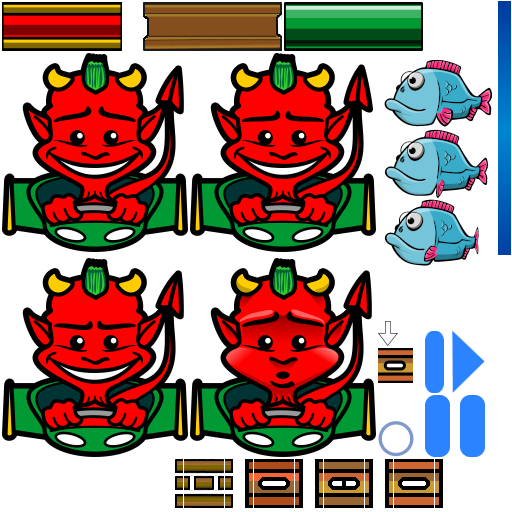
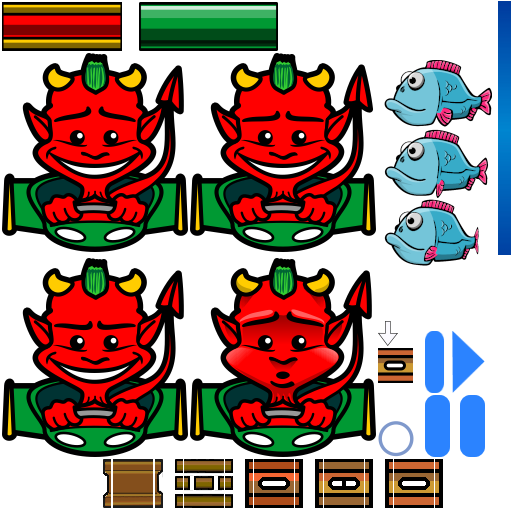
fishes fix. collision debug fix. android gps error dialog. obstacle3 graphics

Changed region(s): [[0.25, 0.0, 0.8438, 0.125], [0.1875, 0.875, 0.3438, 1.0]]

diff --git a/core/src/com/igorcrevar/goingunder/objects/Fishes.java b/core/src/com/igorcrevar/goingunder/objects/Fishes.java
@@ -12,7 +12,7 @@ import com.igorcrevar.goingunder.GameManager;
 import com.igorcrevar.goingunder.utils.Mathf;
 
 public class Fishes implements IGameObject {
-    private final static int MaxFishes = 5;
+    private final static int MaxFishes = 6;
     private final float RandomProbability = 0.007f;
 
     private class Fish {
@@ -35,14 +35,14 @@ public class Fishes implements IGameObject {
             float sizeY = (float)textures[0].getRegionHeight() / textures[0].getRegionWidth() * sizeX;
             
             this.speed = 0.16f + (float)Math.random() * 0.2f;
-            boolean bottomFish = Math.random() > 0.3f; // better chance
-            // if upper part then go downwards and viceversa (but not whole up or down)
+            boolean bottomFish = Math.random() > 0.3f; // better chance for bottom
+            // if upper part then go downwards. bottom part has more chances to go upwards
             if (bottomFish) {
                 this.startY = (float)(-gameData.CameraHalfHeight * Math.random());
-                this.endY = this.startY - (float)(Math.random() * gd.CameraHalfHeight * 0.3); 
+                this.endY = this.startY + (float)(Math.random() * gd.CameraHalfHeight * 0.5f) - 0.15f * gd.CameraHalfHeight; 
             } else {
                 this.startY = (float)(gameData.CameraHalfHeight * 0.6f * Math.random());
-                this.endY = this.startY + (float)(Math.random() * gd.CameraHalfHeight * 0.3);
+                this.endY = this.startY - (float)(Math.random() * gd.CameraHalfHeight * 0.35);
             }
             this.startY += gd.getCameraYCenter(); // inc for camera position
             this.endY += gd.getCameraYCenter(); // inc for camera position
@@ -65,19 +65,20 @@ public class Fishes implements IGameObject {
             this.dirChanged = false;
         }
 
-        public boolean update(float playerX, float playerY, GameData gd, TextureRegion[] textures, float time) {
+        public boolean update(float playerX, float playerY, float cameraTop, TextureRegion[] textures, float time) {
             float realTime = (time - startTime) * speed;
             float x = Mathf.lerp(this.startX, this.endX, realTime);
             float y = Mathf.lerp(this.startY, this.endY, realTime);
 
             // turn if near player!
-            float playerDist = (x-playerX)*(x-playerX) + (y-playerY)*(y-playerY);
+            float xDiff = x + gameObject.getWidth()/2f - playerX;
+            float yDiff = y + gameObject.getHeight()/2f - playerY;
+            float playerDist = xDiff*xDiff + yDiff*yDiff;
             if (playerDist < 1f && !dirChanged) {
                 this.dirChanged = true;
                 this.speed = this.speed * 2f;
                 this.endX = this.startX;
                 this.startX = x;
-                this.endY = this.startY;
                 this.startY = y;
                 this.startTime = time;
                 this.updateRotation();
@@ -87,10 +88,10 @@ public class Fishes implements IGameObject {
             updateAnimation(textures, time);
 
             if (this.startX < this.endX) {
-                return y <= gd.getCameraTop() && x < this.endX;
+                return y <= cameraTop && x < this.endX;
             }
 
-            return y <= gd.getCameraTop() && x > this.endX;
+            return y <= cameraTop && x > this.endX;
         }
 
         private void updateRotation() {
@@ -149,7 +150,11 @@ public class Fishes implements IGameObject {
 
         for (int i = 0; i < this.aliveFishes; i++) {
             boolean isAlive = this.fishes[i].update(
-                player.getX(), player.getY(), gameData, animation, animationTimer);
+                player.getX(),
+                player.getY(),
+                gameData.getCameraTop(),
+                animation,
+                animationTimer);
             if (!isAlive) {
                 this.aliveFishes--;
                 Fish tmp = this.fishes[i];

diff --git a/core/src/com/igorcrevar/goingunder/collision/CollisionResolver.java b/core/src/com/igorcrevar/goingunder/collision/CollisionResolver.java
@@ -3,6 +3,7 @@ package com.igorcrevar.goingunder.collision;
 import java.util.ArrayList;
 
 import com.badlogic.gdx.graphics.glutils.ShapeRenderer;
+import com.badlogic.gdx.graphics.glutils.ShapeRenderer.ShapeType;
 import com.badlogic.gdx.math.Rectangle;
 import com.badlogic.gdx.math.Vector2;
 import com.igorcrevar.goingunder.GameData;
@@ -25,29 +26,34 @@ public class CollisionResolver {
 		}
 	}
 	
-	public void draw(ShapeRenderer shapeRenderer, BoundingBox aabb, GameData gameData) {
+	private void draw(ShapeRenderer shapeRenderer, BoundingBox aabb, float cameraY) {
 		Vector2[] t = aabb.getVertices();
 		shapeRenderer.setColor(1, 1, 1, 1);
 		for (int i = 0; i < 4; ++i) {
 			Vector2 a = t[i];
-			Vector2 b = t[(i + 1) % 4];
-			shapeRenderer.line(a.x, a.y  - gameData.CameraYPosition, b.x, b.y - gameData.CameraYPosition);
+			Vector2 b = t[(i + 1) & 3];
+			shapeRenderer.line(a.x, a.y - cameraY, b.x, b.y - cameraY);
 		}		
-	}	
-	public void draw(ShapeRenderer shapeRenderer, BoundingSphere aabb, GameData gameData) {
-		shapeRenderer.setColor(1, 1, 1, 1);
-		shapeRenderer.circle(aabb.getCenter().x, aabb.getCenter().y - gameData.CameraYPosition, aabb.getRadius(), 60);
 	}
+
+	private void draw(ShapeRenderer shapeRenderer, BoundingSphere aabb, float cameraY) {
+		shapeRenderer.setColor(1, 1, 1, 1);
+		shapeRenderer.circle(aabb.getCenter().x, aabb.getCenter().y - cameraY, aabb.getRadius(), 60);
+	}
+
 	public void draw(ShapeRenderer shapeRenderer, GameData gameData) {
-		draw(shapeRenderer, playerBoundingBox, gameData);
-		draw(shapeRenderer, playerBoundingSphere, gameData);
-		draw(shapeRenderer, playerBoundingSphere2, gameData);
+		float cameraY = gameData.getCameraYCenter();
+		shapeRenderer.begin(ShapeType.Line);
+		draw(shapeRenderer, playerBoundingBox, cameraY);
+		draw(shapeRenderer, playerBoundingSphere, cameraY);
+		draw(shapeRenderer, playerBoundingSphere2, cameraY);
 		for (int i = 0; i < currentNumberOfObstacleBBs; ++i) {
-			draw(shapeRenderer, obstacleBoundingBoxes[i], gameData);
+			draw(shapeRenderer, obstacleBoundingBoxes[i], cameraY);
 		}
+		shapeRenderer.end();
 	}
 	
-	public boolean detect(Player player, ArrayList<ObstacleObject> obstacles) {
+	public boolean detect(Player player, ArrayList<ObstacleObject> obstacles, boolean drawCollisions) {
 		// update bounding boxes
 		float angle = (float)(player.getAngle() / 180.f * Math.PI);
 		playerBoundingBox.update(player.getX(), player.getY(), angle);
@@ -55,13 +61,15 @@ public class CollisionResolver {
 		playerBoundingSphere2.update(player.getX(), player.getY(), angle);
 		
 		// just for debug
-		/*currentNumberOfObstacleBBs = 0;
-		for (ObstacleObject oo : obstacles) {
-			for (int i = 0; i < oo.getPartsCount(); ++i) {
-				Rectangle r = oo.getBoundRectangle(i);
-				obstacleBoundingBoxes[currentNumberOfObstacleBBs++].populateFromRectangle(r);
+		if (drawCollisions) {
+			currentNumberOfObstacleBBs = 0;
+			for (ObstacleObject oo : obstacles) {
+				for (int i = 0; i < oo.getPartsCount(); ++i) {
+					Rectangle r = oo.getBoundRectangle(i);
+					obstacleBoundingBoxes[currentNumberOfObstacleBBs++].populateFromRectangle(r);
+				}
 			}
-		}*/
+		}
 		// end just for debug
 		
 		Rectangle playerRect = player.getBoundingRectangle();

diff --git a/core/src/com/igorcrevar/goingunder/scenes/GameScene.java b/core/src/com/igorcrevar/goingunder/scenes/GameScene.java
@@ -6,7 +6,6 @@ import com.badlogic.gdx.Gdx;
 import com.badlogic.gdx.graphics.Color;
 import com.badlogic.gdx.graphics.g2d.SpriteBatch;
 import com.badlogic.gdx.graphics.glutils.ShapeRenderer;
-import com.badlogic.gdx.graphics.glutils.ShapeRenderer.ShapeType;
 import com.igorcrevar.goingunder.GameData;
 import com.igorcrevar.goingunder.GameManager;
 import com.igorcrevar.goingunder.IActivityRequestHandler;
@@ -37,8 +36,8 @@ public class GameScene implements IScene {
 	
 	private ParticleEffect particles;
 		
-	private SpriteBatch spriteBatch = new SpriteBatch();
-	private ShapeRenderer shapeRenderer = new ShapeRenderer();
+	private final SpriteBatch spriteBatch = new SpriteBatch();
+	private final ShapeRenderer shapeRenderer = new ShapeRenderer();
 	
 	private final IMyRandom myRandom;
 	private IObstaclePool obstaclePool;
@@ -48,10 +47,10 @@ public class GameScene implements IScene {
 
 	private final int halfScreen;
 	
-	private CollisionResolver collisionResolver = new CollisionResolver();
+	private final CollisionResolver collisionResolver = new CollisionResolver();
 	
 	// my font
-	private MyFontDrawerBatch myFontDrawerBatch = new MyFontDrawerBatch(new MyFontDrawerDefaultFont());
+	private final MyFontDrawerBatch myFontDrawerBatch = new MyFontDrawerBatch(new MyFontDrawerDefaultFont());
 	private MyFontDrawer gameOverDrawer;
 	private final IActivityRequestHandler activityRequestHandler;
 	
@@ -106,12 +105,7 @@ public class GameScene implements IScene {
 		resumingCounter = 0.0f;
 		myRandom.reset();
 		gameManager.setGameStatus(GameManager.Status.Active);
-		if (gameManager.getTotalScoreSum() <= 5) {
-			prevCameraYWhenObstacleIsGenerated = gameData.CameraYPosition - gameData.ObstacleGeneratorDistance * 0.1f;
-		}
-		else {
-			prevCameraYWhenObstacleIsGenerated = gameData.CameraYPosition + gameData.ObstacleGeneratorDistance * 0.8f;	
-		}
+		prevCameraYWhenObstacleIsGenerated = gameData.CameraYPosition + gameData.ObstacleGeneratorDistance;
 		
 		activeGameButtons.init();
 	}
@@ -127,8 +121,10 @@ public class GameScene implements IScene {
 				// obstacles generation
 				obstacleGeneration();
 				// detect collision
-				if (gameData.DieOnCollision && collisionResolver.detect(player, obstaclePool.getAllVisibles())) {
-					playerDies(sceneManager);
+				if (collisionResolver.detect(player, obstaclePool.getAllVisibles(), gameData.DrawCollision)) {
+					if (gameData.DieOnCollision) {
+						playerDies(sceneManager);
+					}
 				}
 				break;
 
@@ -287,9 +283,7 @@ public class GameScene implements IScene {
 			player.drawLights(shapeRenderer, gameData);
 			// draw collision
 			if (gameData.DrawCollision) {
-				shapeRenderer.begin(ShapeType.Line);
 				collisionResolver.draw(shapeRenderer, gameData);
-				shapeRenderer.end();
 			}
 		}
 	}

diff --git a/core/src/com/igorcrevar/goingunder/GameDataLevelFactory.java b/core/src/com/igorcrevar/goingunder/GameDataLevelFactory.java
@@ -1,6 +1,5 @@
 package com.igorcrevar.goingunder;
 
-import com.badlogic.gdx.graphics.g2d.Sprite;
 import com.badlogic.gdx.graphics.g2d.TextureAtlas.AtlasRegion;
 import com.igorcrevar.goingunder.statemachine.GeneratorStateMachine;
 import com.igorcrevar.goingunder.statemachine.IGeneratorStateMachine;
@@ -10,11 +9,11 @@ public class GameDataLevelFactory {
 	private static class GameLevel0 extends GameLevel1 {
 		public GameLevel0(GameManager gameManager) {
 			super(gameManager);
-			velocityY = -1.8f;
+			velocityY = -1.6f;
 			friction = 3.5f;
 			emptySpaceSizeInTheMiddle = 1.52f;
 			emptySpaceSizeOnTheEnd = 1.48f;
-			endOnScore = 4;
+			endOnScore = 2;
 		}
 
 		@Override
@@ -33,13 +32,13 @@ public class GameDataLevelFactory {
 		public GameLevel1(GameManager gameManager) {
 			friction = 3.5f;
 			velocityX = 1.8f;
-			velocityY = -2.2f;
+			velocityY = -2.05f;
 			obstacleGeneratorDistance = 5.359f;
 			
 			emptySpaceSizeInTheMiddle = 1.34f;
 			emptySpaceSizeOnTheEnd = 1.28f;
 			boundariesBouncingFactor = 0.5f;
-			endOnScore = 15;
+			endOnScore = 10;
 			textures = getTextures(gameManager);
 		}
 
@@ -75,7 +74,7 @@ public class GameDataLevelFactory {
 	private static class GameLevel11 extends GameLevel1 {
 		public GameLevel11(GameManager gameManager) {
 			super(gameManager);
-			velocityY = -2.4f;
+			velocityY = -2.35f;
 			emptySpaceSizeInTheMiddle = 1.22f;
 			emptySpaceSizeOnTheEnd = 1.16f;
 			endOnScore = 30;
@@ -146,7 +145,9 @@ public class GameDataLevelFactory {
 			boundariesBouncingFactor = 0.5f;
 			endOnScore = 90;
 			textures = new AtlasRegion[] {
-				gameManager.getTextureAtlas("game").findRegion("obstacle3"),
+				gameManager.getTextureAtlas("game").findRegion("ob3_left"),
+				gameManager.getTextureAtlas("game").findRegion("ob3_middle"),
+				gameManager.getTextureAtlas("game").findRegion("ob3_right"),
 			};
 		}
 
@@ -167,7 +168,7 @@ public class GameDataLevelFactory {
 
 		@Override
 		public float getPartSize() {
-			return 0.5f;
+			return 0.6f;
 		}
 	}
 	

diff --git a/android/src/com/igorcrevar/goingunder/AndroidLauncher.java b/android/src/com/igorcrevar/goingunder/AndroidLauncher.java
@@ -1,5 +1,6 @@
 package com.igorcrevar.goingunder;
 
+import android.app.AlertDialog;
 import android.content.Intent;
 import android.net.Uri;
 import android.os.Bundle;
@@ -13,7 +14,6 @@ import com.google.android.gms.auth.api.signin.GoogleSignInOptions;
 import com.google.android.gms.games.AchievementsClient;
 import com.google.android.gms.games.Games;
 import com.google.android.gms.games.LeaderboardsClient;
-import com.google.android.gms.tasks.Task;
 
 public class AndroidLauncher extends AndroidApplication {
 	private AchievementsClient achievementClient;
@@ -96,6 +96,8 @@ public class AndroidLauncher extends AndroidApplication {
 					achievementClient.getAchievementsIntent().addOnSuccessListener(
 							intent -> startActivityForResult(intent, 0x666)
 					);
+				} else {
+					showErrorDialog(getString(R.string.gps_info));
 				}
 			}
 
@@ -106,6 +108,8 @@ public class AndroidLauncher extends AndroidApplication {
 					leaderboardsClient.getLeaderboardIntent(ln).addOnSuccessListener(
 							intent -> startActivityForResult(intent,  0x777)
 					);
+				} else {
+					showErrorDialog(getString(R.string.gps_info));
 				}
 			}
 		}), config);
@@ -129,5 +133,12 @@ public class AndroidLauncher extends AndroidApplication {
 					}
 				}
 		);
+	}
+
+	private void showErrorDialog(String message) {
+		this.runOnUiThread(() -> new AlertDialog.Builder(AndroidLauncher.this)
+				.setTitle(R.string.information).setMessage(message)
+				.setPositiveButton("OK",
+						(dialog, which) -> dialog.dismiss()).create().show());
 	}
 }
